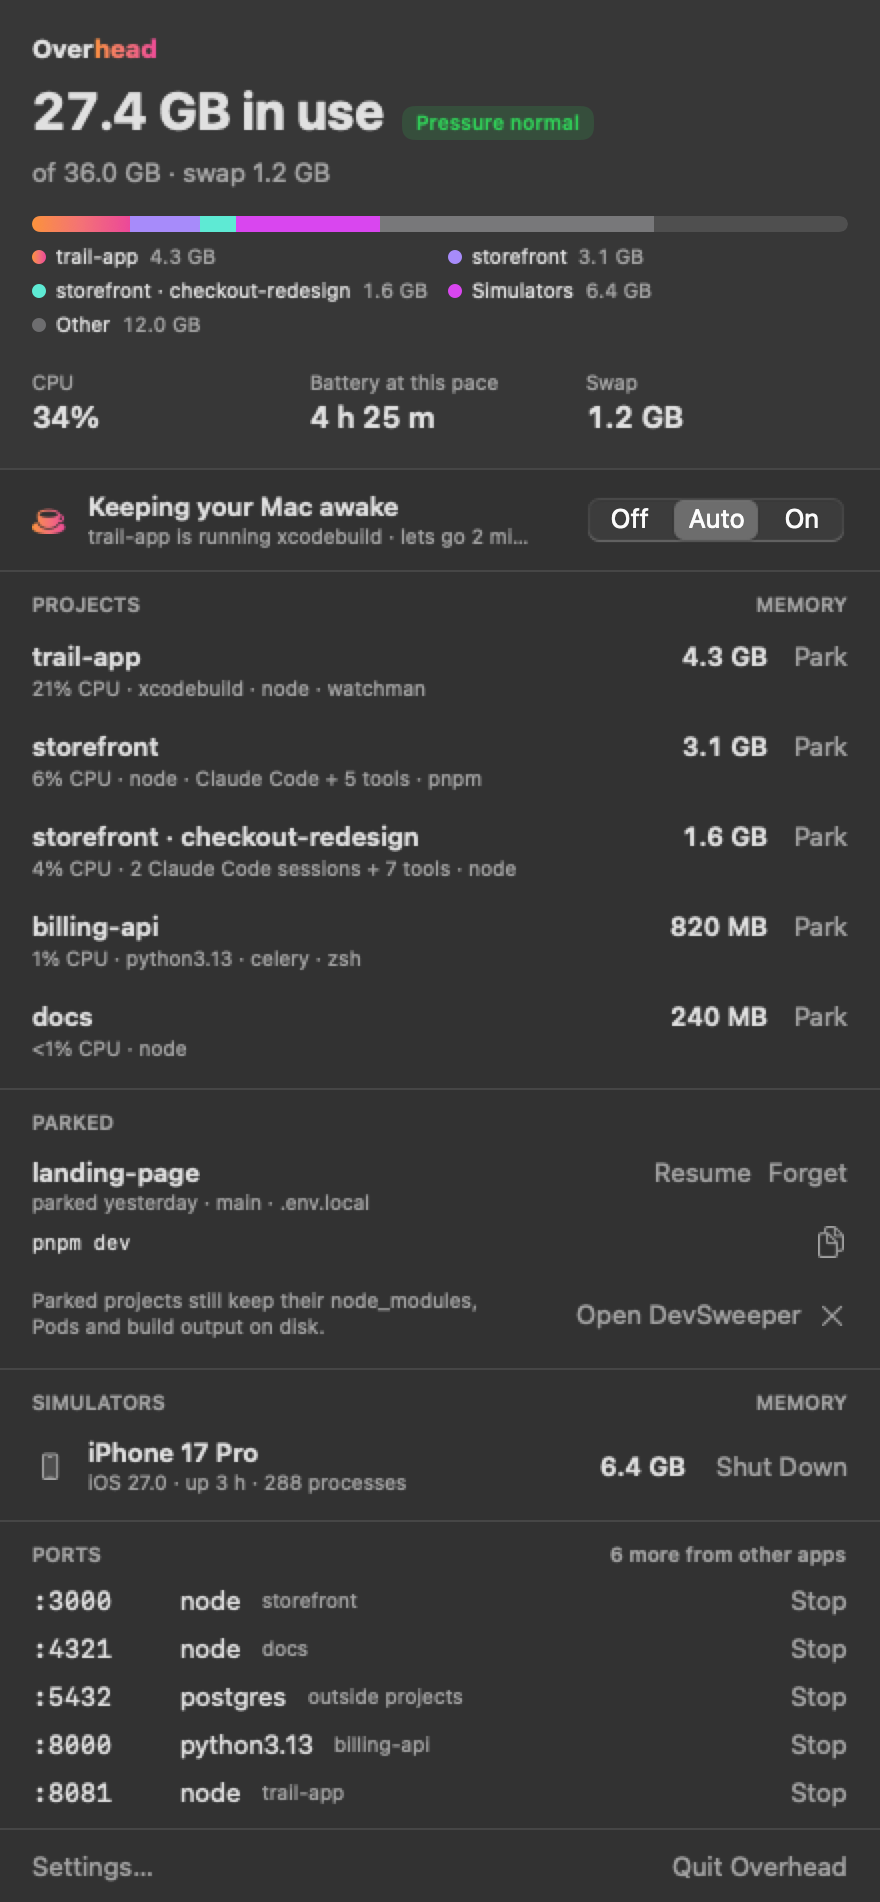
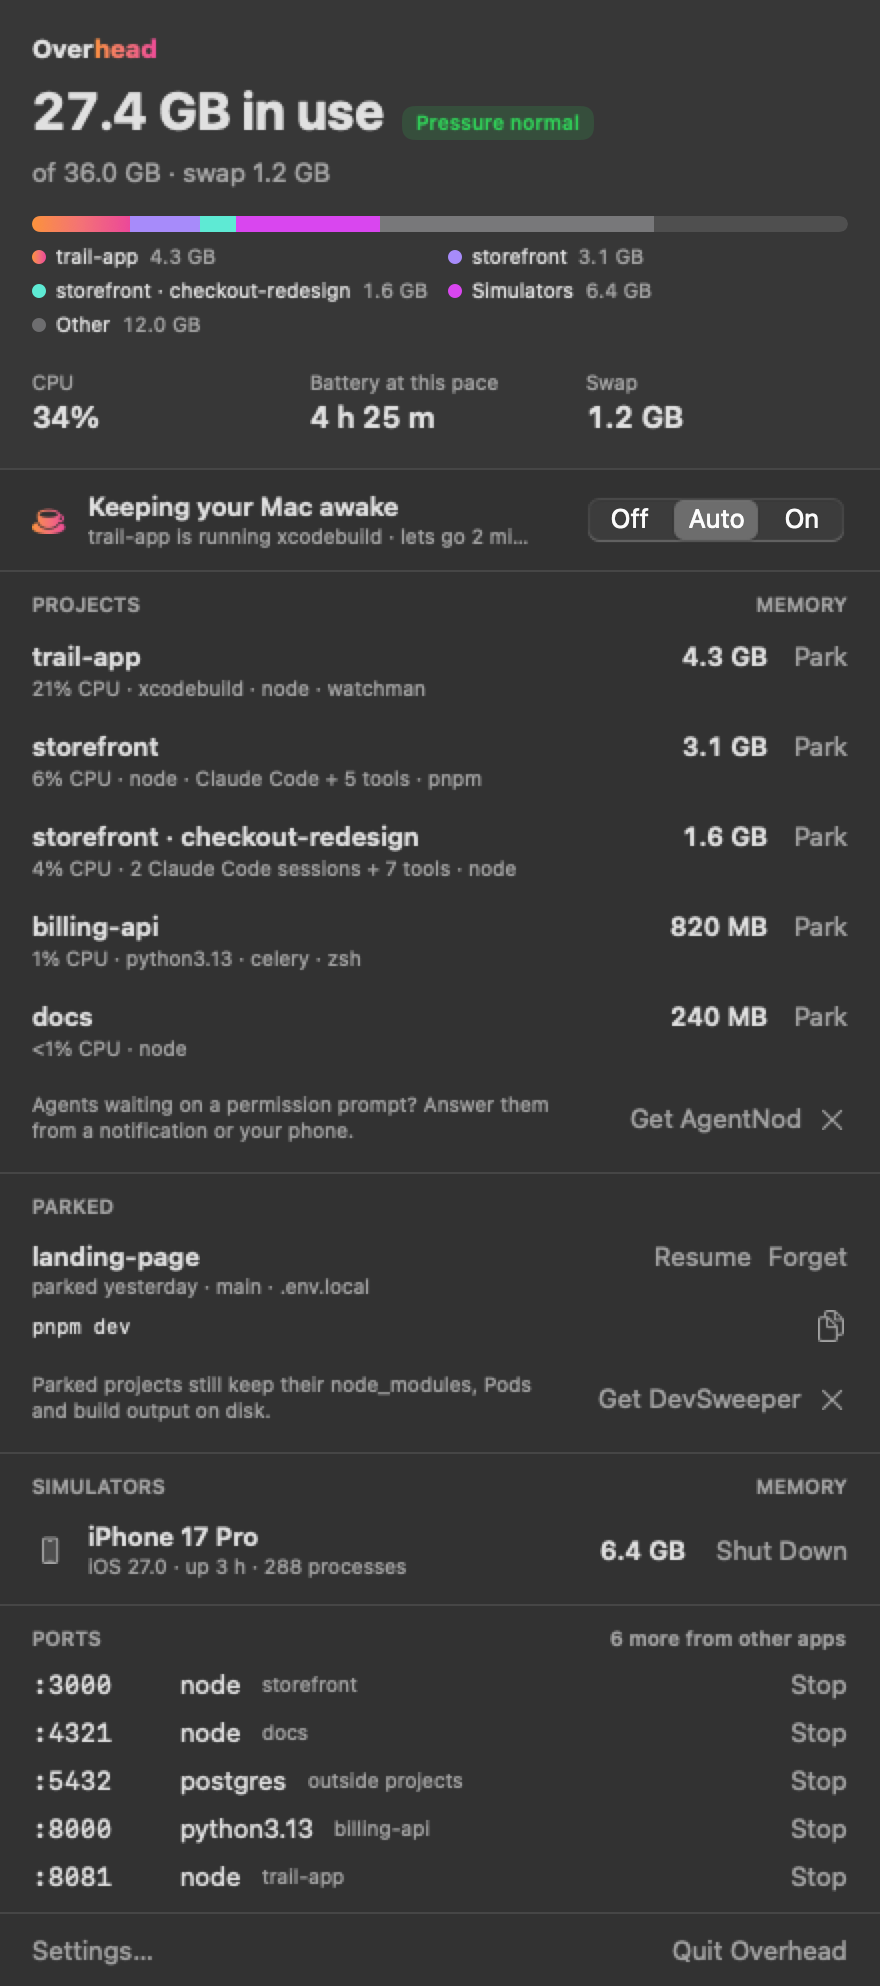
feat: AgentNod hint under projects while agents run and it is not installed
Dismissible like the DevSweeper hint, which now shares HintRow. Links to
agentnod.app with ?ref=overhead, or opens the app when installed. The demo
treats both apps as not installed so screenshots match on every Mac.

diff --git a/Sources/OverheadApp/PopoverView.swift b/Sources/OverheadApp/PopoverView.swift
@@ -141,6 +141,15 @@ struct PopoverView: View {
                         .padding(.horizontal, 16)
                         .padding(.vertical, 8)
                 }
+                // Only for people running agents who do not have AgentNod yet.
+                if model.agentSessions > 0, !model.agentNodInstalled, !model.agentNodHintDismissed {
+                    HintRow(
+                        text: "Agents waiting on a permission prompt? Answer them from a notification or your phone.",
+                        action: "Get AgentNod",
+                        perform: model.openAgentNod,
+                        dismiss: { model.agentNodHintDismissed = true }
+                    )
+                }
             }
         }
         .padding(.bottom, 6)
@@ -571,25 +580,12 @@ struct ParkedList: View {
             }
 
             if !model.devSweeperHintDismissed {
-                HStack(spacing: 8) {
-                    Text("Parked projects still keep their node_modules, Pods and build output on disk.")
-                        .font(.caption)
-                        .foregroundStyle(.secondary)
-                    Spacer()
-                    Button(model.devSweeperInstalled ? "Open DevSweeper" : "Get DevSweeper") { model.openDevSweeper() }
-                        .buttonStyle(.borderless)
-                    Button {
-                        model.devSweeperHintDismissed = true
-                    } label: {
-                        Image(systemName: "xmark")
-                    }
-                    .buttonStyle(.borderless)
-                    .foregroundStyle(.secondary)
-                    .accessibilityLabel("Don't show again")
-                    .help("Don't show again")
-                }
-                .padding(.horizontal, 16)
-                .padding(.vertical, 8)
+                HintRow(
+                    text: "Parked projects still keep their node_modules, Pods and build output on disk.",
+                    action: model.devSweeperInstalled ? "Open DevSweeper" : "Get DevSweeper",
+                    perform: model.openDevSweeper,
+                    dismiss: { model.devSweeperHintDismissed = true }
+                )
             }
         }
         .padding(.bottom, 6)
@@ -601,5 +597,33 @@ struct ParkedList: View {
         if !project.simulators.isEmpty { parts.append(project.simulators.map(\.name).joined(separator: ", ")) }
         if !project.envFiles.isEmpty { parts.append(project.envFiles.joined(separator: " ")) }
         return parts.joined(separator: " · ")
+    }
+}
+
+/// A one-line pointer to a companion app, with a button and a way to never see it again.
+struct HintRow: View {
+    let text: String
+    let action: String
+    let perform: () -> Void
+    let dismiss: () -> Void
+
+    var body: some View {
+        HStack(spacing: 8) {
+            Text(text)
+                .font(.caption)
+                .foregroundStyle(.secondary)
+            Spacer()
+            Button(action, action: perform)
+                .buttonStyle(.borderless)
+            Button(action: dismiss) {
+                Image(systemName: "xmark")
+            }
+            .buttonStyle(.borderless)
+            .foregroundStyle(.secondary)
+            .accessibilityLabel("Don't show again")
+            .help("Don't show again")
+        }
+        .padding(.horizontal, 16)
+        .padding(.vertical, 8)
     }
 }

diff --git a/Sources/OverheadApp/OverheadModel.swift b/Sources/OverheadApp/OverheadModel.swift
@@ -23,6 +23,9 @@ final class OverheadModel: ObservableObject {
     @Published var devSweeperHintDismissed: Bool {
         didSet { UserDefaults.standard.set(devSweeperHintDismissed, forKey: Self.devSweeperHintKey) }
     }
+    @Published var agentNodHintDismissed: Bool {
+        didSet { UserDefaults.standard.set(agentNodHintDismissed, forKey: Self.agentNodHintKey) }
+    }
 
     // MARK: Settings, each saved as it changes
 
@@ -54,6 +57,8 @@ final class OverheadModel: ObservableObject {
     private static let keepAwakeKey = "keepAwakeMode"
     private static let devSweeperHintKey = "devSweeperHintDismissed"
     private static let devSweeperBundleID = "com.devsweeper.DevSweeper"
+    private static let agentNodHintKey = "agentNodHintDismissed"
+    private static let agentNodBundleID = "app.agentnod.mac"
     private let store = ParkedStore()
 
     private var projects: [Project] = []
@@ -85,6 +90,7 @@ final class OverheadModel: ObservableObject {
         if demo { stored.removePersistentDomain(forName: "overhead-demo") }
         keepAwake = stored.string(forKey: Self.keepAwakeKey).flatMap(KeepAwakeMode.init) ?? .automatic
         devSweeperHintDismissed = stored.bool(forKey: Self.devSweeperHintKey)
+        agentNodHintDismissed = stored.bool(forKey: Self.agentNodHintKey)
         func flag(_ key: String, _ fallback: Bool) -> Bool { stored.object(forKey: key) as? Bool ?? fallback }
         showCPU = flag("showCPU", true)
         showMemory = flag("showMemory", true)
@@ -261,18 +267,30 @@ final class OverheadModel: ObservableObject {
         do { try store.save(parked) } catch { lastError = "Could not save parked projects: \(error)" }
     }
 
-    // MARK: DevSweeper
+    // MARK: DevSweeper and AgentNod
 
-    var devSweeperInstalled: Bool {
-        NSWorkspace.shared.urlForApplication(withBundleIdentifier: Self.devSweeperBundleID) != nil
-    }
+    /// The demo pretends neither is installed, so its screenshots look the same on every Mac.
+    var devSweeperInstalled: Bool { !isDemo && installedApp(Self.devSweeperBundleID) != nil }
+    var agentNodInstalled: Bool { !isDemo && installedApp(Self.agentNodBundleID) != nil }
+
+    /// Coding agent sessions running across all projects.
+    var agentSessions: Int { attribution.projects.reduce(0) { $0 + $1.agentSessions } }
 
     /// Opens DevSweeper when it is installed, otherwise its website.
-    func openDevSweeper() {
-        if let app = NSWorkspace.shared.urlForApplication(withBundleIdentifier: Self.devSweeperBundleID) {
+    func openDevSweeper() { open(Self.devSweeperBundleID, site: "https://devsweeper.com/?ref=overhead") }
+
+    /// Opens AgentNod when it is installed, otherwise its website.
+    func openAgentNod() { open(Self.agentNodBundleID, site: "https://agentnod.app/?ref=overhead") }
+
+    private func installedApp(_ bundleID: String) -> URL? {
+        NSWorkspace.shared.urlForApplication(withBundleIdentifier: bundleID)
+    }
+
+    private func open(_ bundleID: String, site: String) {
+        if let app = installedApp(bundleID) {
             NSWorkspace.shared.openApplication(at: app, configuration: NSWorkspace.OpenConfiguration())
-        } else if let site = URL(string: "https://devsweeper.com/?ref=overhead") {
-            NSWorkspace.shared.open(site)
+        } else if let url = URL(string: site) {
+            NSWorkspace.shared.open(url)
         }
     }
 
